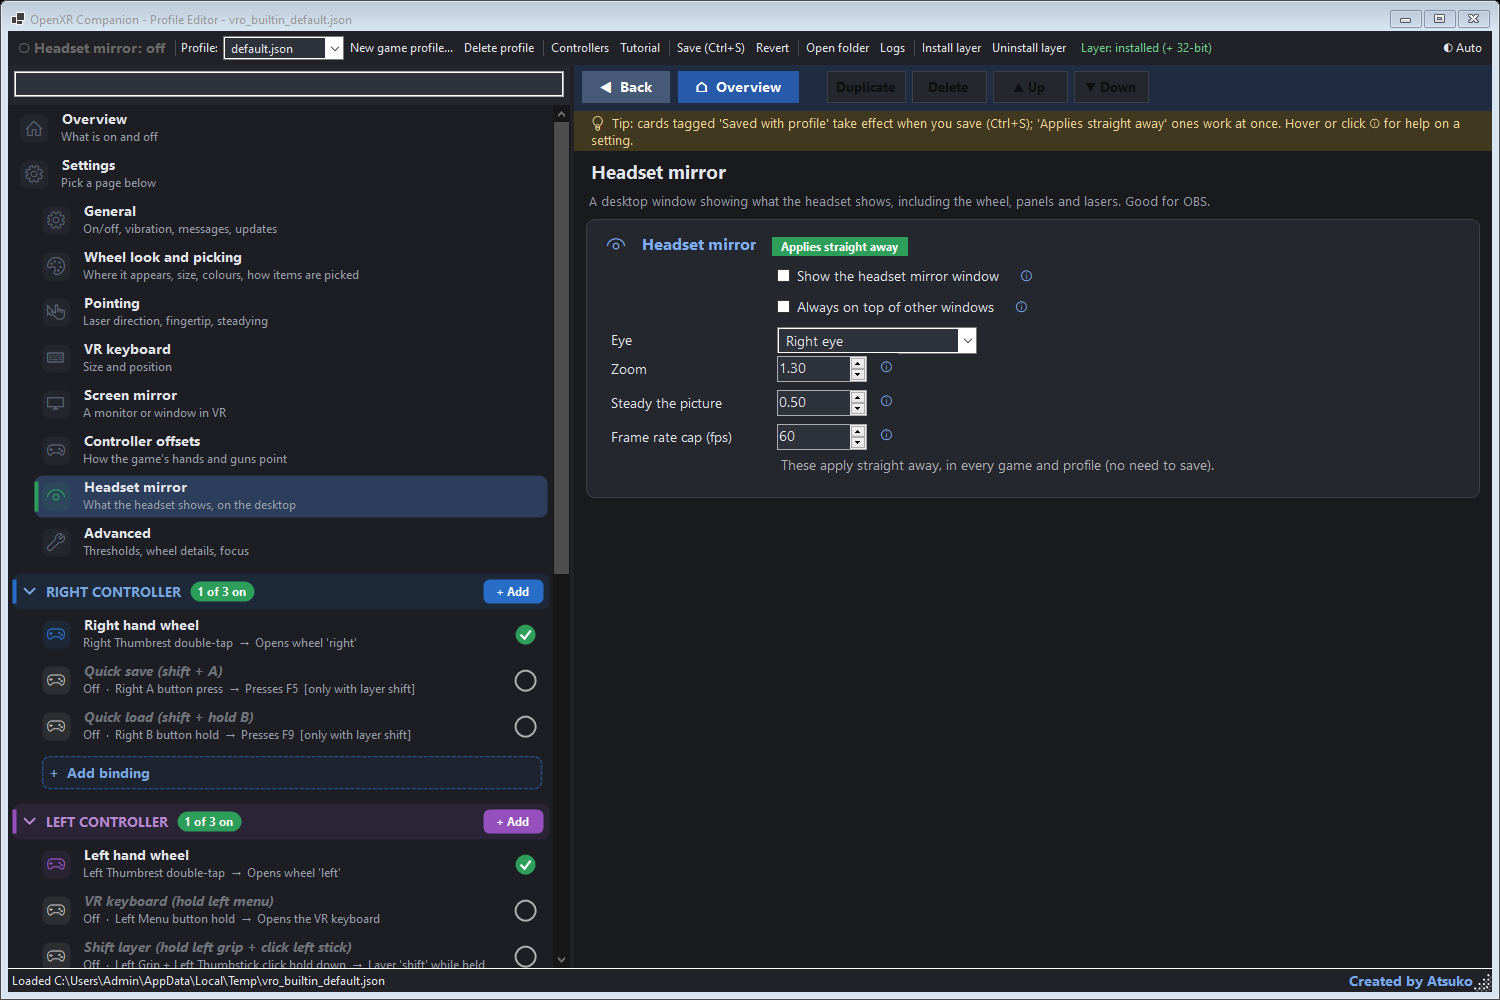
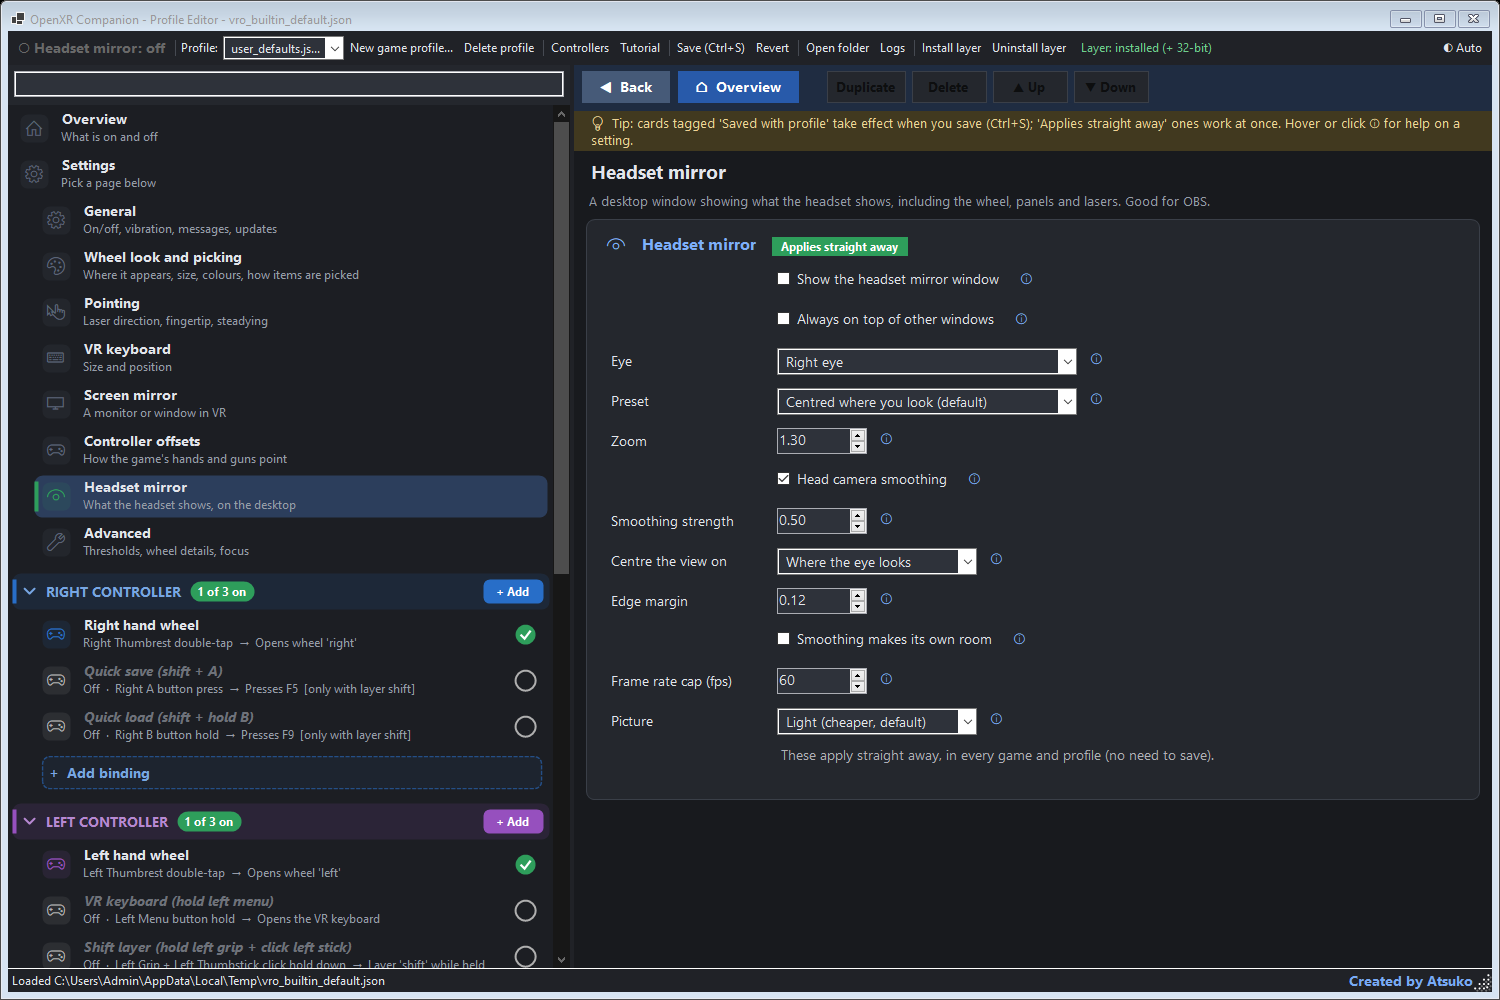
v0.2.12: headset mirror presets, both eyes, head camera smoothing switch, centred where you look, light picture mode, flat menu screens, real full screen; sharper screen mirror in 32-bit games; keys no longer go to the mirror window

diff --git a/editor/SettingsEditor.cs b/editor/SettingsEditor.cs
@@ -539,7 +539,7 @@ public class SettingsEditor : EditorBase
                 // zoom, smoothing (0 = off), centre, edge margin, own room, both eyes
                 var presets = new Dictionary<string, (decimal zoom, decimal steady, string centre, decimal margin, bool room, bool both)>
                 {
-                    ["gaze"] = (1.4m, 0.5m, "gaze", 0.12m, false, false),
+                    ["gaze"] = (1.3m, 0.5m, "gaze", 0.12m, false, false), // = the app's defaults
                     ["gaze_room"] = (1.3m, 0.5m, "gaze", 0.12m, true, false),
                     ["both"] = (1.0m, 0.5m, "gaze", 0.12m, false, true),
                     ["original"] = (1.3m, 0.5m, "middle", 0.04m, true, false),

diff --git a/README.md b/README.md
@@ -185,11 +185,19 @@ Open the VR keyboard. The bar under it has **Dock screen above keys** (the scree
 A desktop window showing what the headset shows, **including the wheel, wrist panels, mirrored screen, lasers and messages** (a game's own mirror can't show those, because they're added after the game). Good for recording or streaming (capture the window in OBS) or for someone watching.
 
 - Turn it on with the first button on the editor's toolbar, or the **Headset mirror** button on the left wrist panel (More). Closing the window turns it off.
-- **Settings > Headset mirror**: which eye (right by default), **zoom** (1.3 looks like a normal camera; the picture always fills the window, so resize the window for another shape), **steady the picture** (irons small head shakes out of the window like a camera stabiliser; 0.5 by default; the view in the headset is not changed) and a **frame rate cap** (60 is smooth and cheap).
+- **Settings > Headset mirror**:
+  - **Preset**: sets the options below together (centred where you look, wide with both eyes, the original look, the exact headset view). Change anything afterwards and it shows Custom.
+  - **Eye**: left, right, or **both eyes**: centred on where that eye looks, with the other eye filling in the nose side (where one eye's picture ends in a black strip). Far things line up; close things on that side can look a little doubled.
+  - **Zoom**: 1 is the whole eye picture, 1.3 looks like a normal camera. The picture always fills the window, so resize the window for another shape.
+  - **Head camera smoothing** with its **strength**: irons small head shakes out of the window like a camera stabiliser (on at 0.5 by default; the view in the headset is not changed). It drifts into the picture the zoom leaves out, so it works fully from about zoom 1.3, or turn on **Smoothing makes its own room**.
+  - **Centre the view on** where the eye looks (default) or the middle of the picture, and an **Edge margin** that keeps the black strip on the nose side out.
+  - **Frame rate cap** (60 is smooth and cheap) and **Picture**: Light (default, draws straight from the game's picture, about half the cost) or Full.
+- **Full screen**: maximize the window (button or title double-click) to cover the whole monitor, taskbar included; double-click the picture to go in and out.
+- When the game shows only a flat screen (menus, loading screens), the mirror shows that screen.
 - **Always on top of other windows** keeps it above the game on your monitor. The mirror never takes focus from the game, even when you click, move or resize it, so the game keeps your keyboard and controller input. Use borderless or windowed mode in the game; exclusive fullscreen can still cover it.
 - It never holds the game up. D3D11 games for now.
 
-![Settings > Headset mirror: show the window, always on top, eye, zoom, steady the picture, frame rate cap](docs/images/editor-headset-mirror.png)
+![Settings > Headset mirror: show the window, always on top, eye, preset, zoom, head camera smoothing, frame rate cap](docs/images/editor-headset-mirror.png)
 
 ## Controller offsets (fix how the game's hands point)
 
@@ -210,7 +218,7 @@ All off by default; 0.5 is a good start. Each one holds still through small shak
 | Settings > Pointing > **Steady the laser** | the laser, and the mouse on a mirrored screen |
 | Settings > Screen mirror > **Steady the screen** | a screen on your wrist or following your view |
 | Settings > Controller offsets > **Steady the game's hands** | the hands and guns in the game |
-| Settings > Headset mirror > **Steady the picture** | the headset mirror window only (on at 0.5) |
+| Settings > Headset mirror > **Head camera smoothing** | the headset mirror window only (on at 0.5) |
 
 ## Experimental features
 

diff --git a/CHANGELOG.md b/CHANGELOG.md
@@ -1,5 +1,27 @@
 # Changelog
 
+## v0.2.12 (2026-11-22)
+
+### New
+- **Headset mirror presets**: one dropdown sets zoom, head camera smoothing, centre, edge margin and one or both eyes together (Centred where you look, the default; Centred with smoothing's own room; Wide: both eyes; Original; Exact headset view). Change anything afterwards and it shows Custom.
+- **Both eyes** in the headset mirror's Eye choice: the view centres on where that eye looks, and the other eye fills in the nose side, where one eye's picture ends in a black strip. Far things line up; close things on that side can look a little doubled.
+- **Head camera smoothing** (was "Steady the picture") is now an on/off switch with its own strength, kept while it is off.
+- **Centre the view on** where the eye looks (new default) or the middle of the picture (the old way), an **Edge margin** to keep the black strip out, and **Smoothing makes its own room** (off by default) for smoothing that always works fully at low zoom.
+- **Picture: Light / Full** for the headset mirror. Light (default) draws straight from the game's picture and costs about half as much GPU time; Full is the old copy with mipmaps.
+- The headset mirror shows the game's **flat menu screens** (for example TTWVR's theater menus and loading screens) when the game shows no VR view, and black instead of leftover garbage when there is nothing.
+
+### Changed
+- **Headset mirror full screen**: maximizing (button or title double-click) now covers the whole monitor, taskbar included; double-click the picture to go in and out of full screen.
+- The headset mirror is centred on where you look. On Quest that sits toward the nose, so the old view was a little off to one side.
+- Zoom means the same with smoothing on or off: 1 is the whole eye picture.
+- The headset mirror is sharper when the window is a bit smaller than the headset picture.
+- **The screen mirror is sharper in 32-bit games** (Fallout / TTWVR): a 1920-wide monitor is shown at full size instead of half (the automatic limit is 1920 in every game now, and a picture is only halved when it is over 1.5 times the limit).
+- Code cleanup: long functions split into named steps, graphics objects that free themselves, named constants in the editor. Nothing changes in how the app works.
+
+### Fixed
+- **Keys from your menus (quick load and so on) could go to the headset mirror window** instead of the game after you clicked or moved the mirror. The mirror is never taken for the game any more and hands focus straight back.
+- The headset mirror's settings file kept numbers like 1.399999976 for 1.4.
+
 ## v0.2.11 (2026-11-21)
 
 ### New
